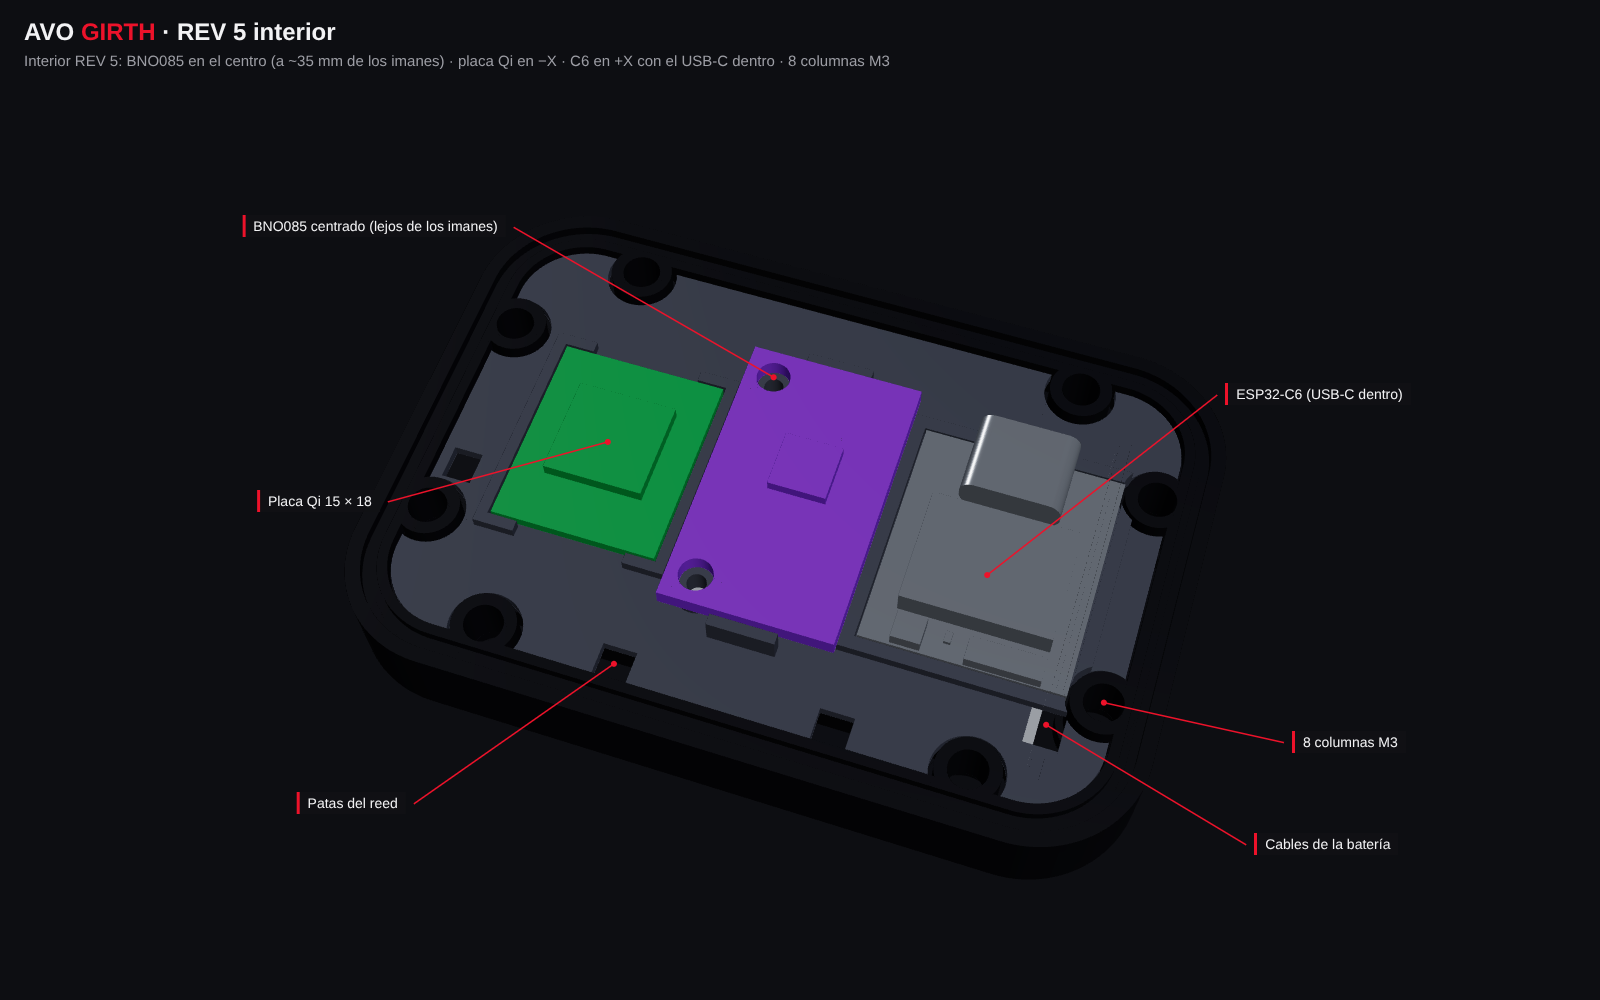
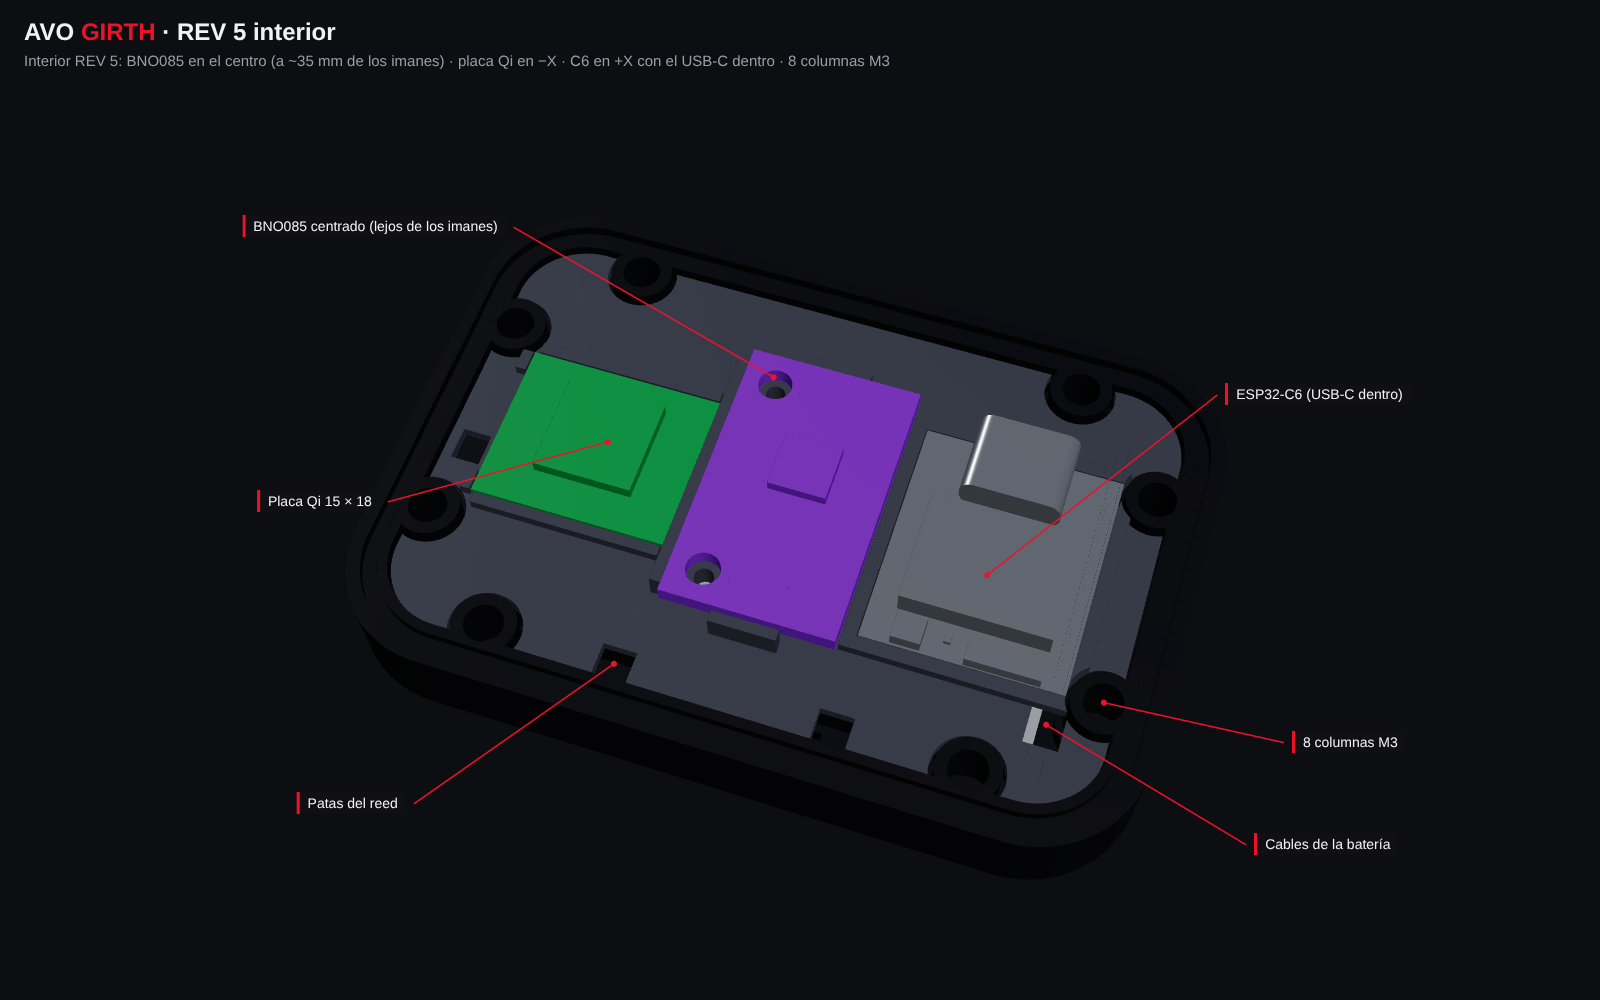
Cincha REV5.1: registro de cambios y render de la bandeja
Claude-Session: https://claude.ai/code/session_01CFKdRMvEszajTemWxtmJHV

Changed region(s): [[0.2812, 0.341, 0.5312, 0.651], [0.5312, 0.372, 0.5625, 0.403], [0.375, 0.465, 0.4062, 0.496]]

diff --git a/docs/REGISTRO_DE_CAMBIOS.md b/docs/REGISTRO_DE_CAMBIOS.md
@@ -688,3 +688,18 @@ Petición del usuario.
   - el usuario preguntó cómo se sujetaba el C6 sin paredes en los 4 costados;
   - ahora lleva un marco en los 4 lados a ras del PCB (holgura 0,15) y un tope de la tapa que aprieta el USB-C desde arriba;
   - CI sin interferencias.
+
+## 2026-10-26 — Cincha REV 5.1 (ajustes tras imprimir base y bandeja)
+- **Prueba física del usuario** con los componentes reales sobre la base y la bandeja impresas.
+- **Placa Qi:**
+  - la placa real mide 18 en X y 15 en Y (el modelo la tenía girada);
+  - el marco queda solo en los lados Y, con topes en las esquinas;
+  - los lados X quedan abiertos: hilos de la bobina en −X y salidas WOUT/BAT en +X;
+  - pasa a x = −18 y el paso de los hilos de la bobina va a (−29, −3).
+- **BNO085:**
+  - largo 25,2 mm y taladros a 3,0 mm de los bordes, medidos sobre la foto (pendiente de calibre);
+  - topes de los extremos a 0,15 mm y pared nueva en el lado −X.
+- **ESP32-C6:** 17,8 × 21; el marco queda a 0,1 mm por lado.
+- **Reed:** el canal es 1 mm más largo por cada extremo.
+- **Tapa:** los postes de la placa Qi se reubican (fuera del hueco de la antena y separados de la pared del BNO).
+- **CI:** sin interferencias, 1 sólido por pieza.
